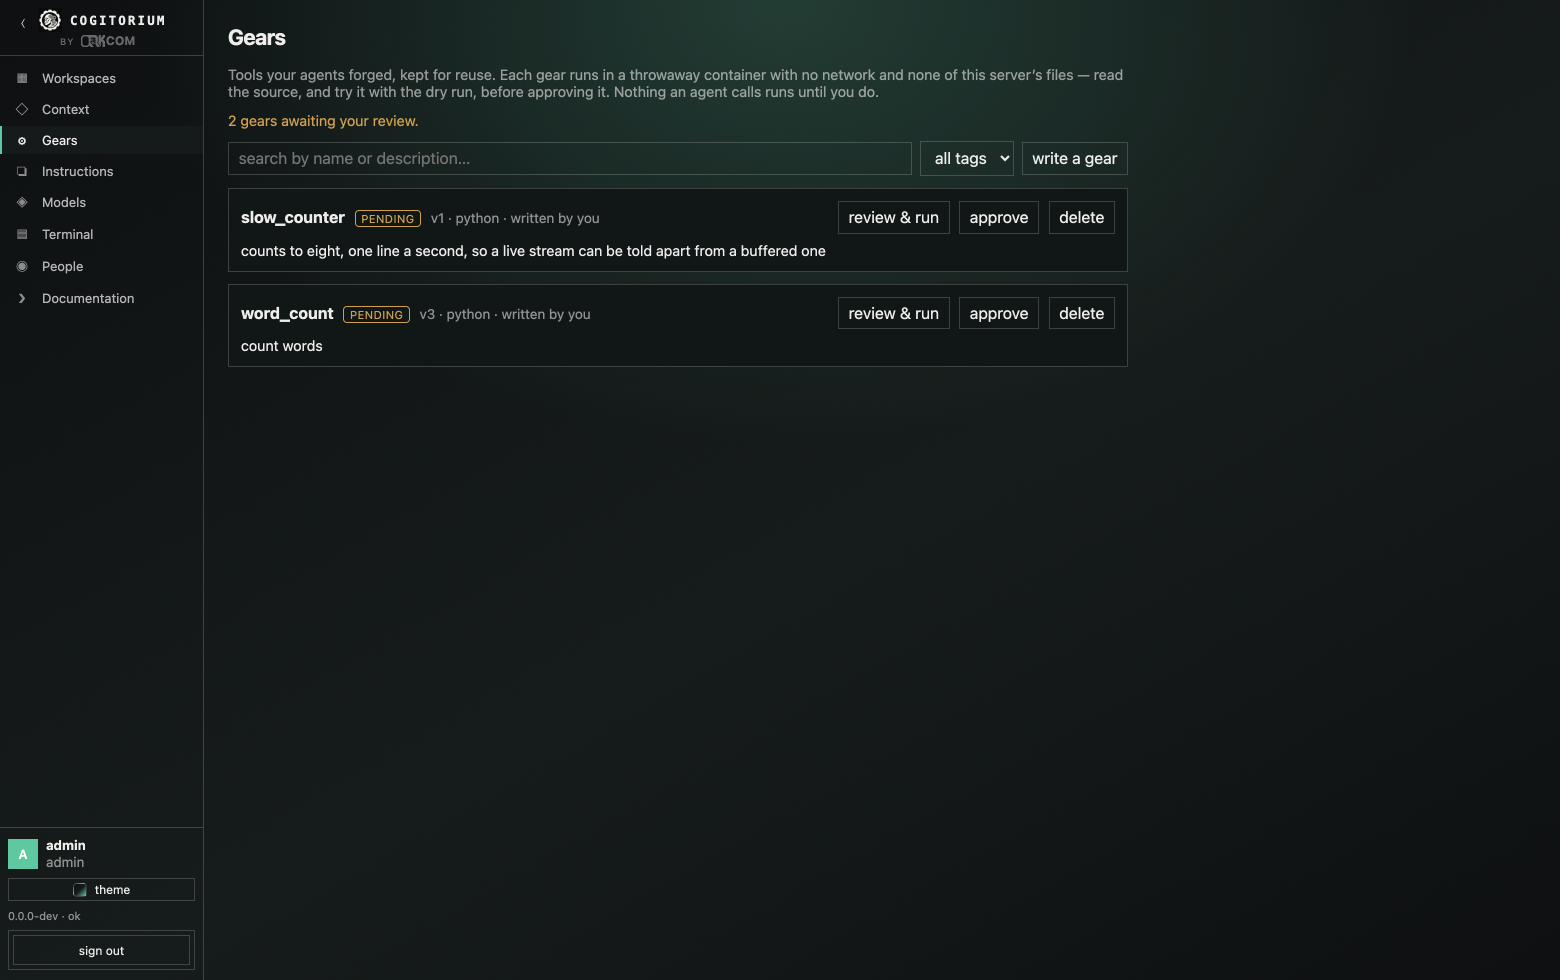
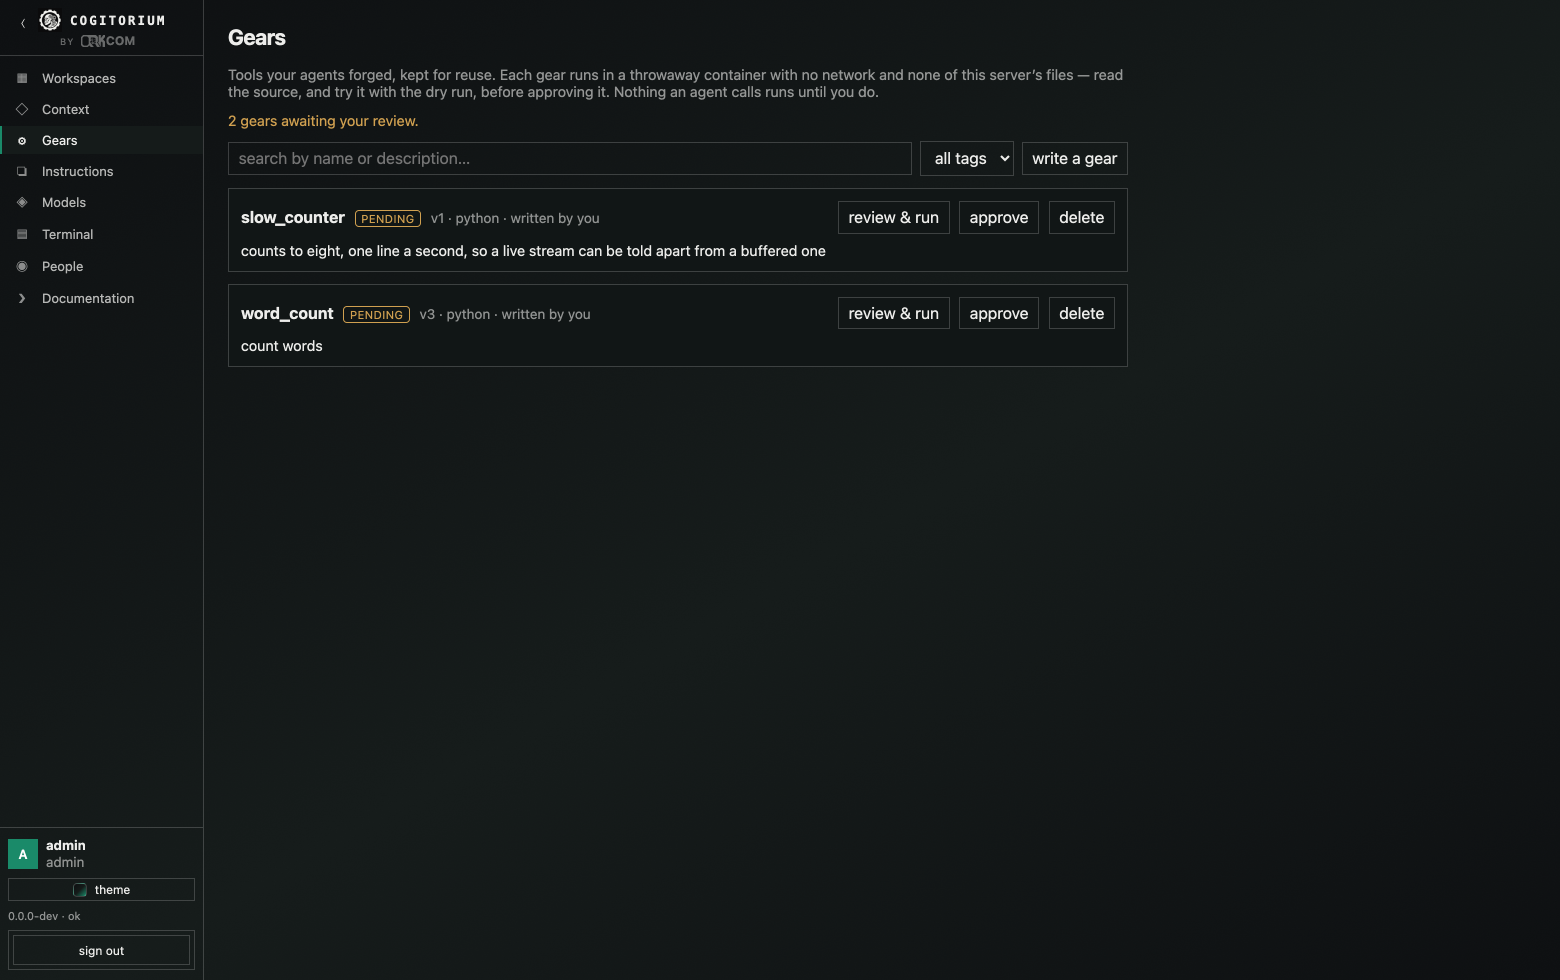
One green, and no weather
Two decisions, taken on measurements rather than taste, and then looked at.

The accent was a mint that measures 9.4:1 on the dark ground and 1.8:1 on the
light one — so in light mode the accent was very nearly invisible, which I only
noticed after fixing light mode enough for anyone to use it. It is now the
mark's own green: 4.5:1 on the Instrument ground, 4.3:1 on Canvas-first's, and
3.8:1 on a light one, the only candidate of six that clears 3:1 at both ends.
That it is also the colour of the icon is the point rather than a coincidence —
one green in the product instead of two that nearly match.

And the glow is off by default in Instrument. It was there because it could not
be switched off, which is a bad reason for a design decision, and the file
already said an instrument has no weather while the stylesheet washed the top of
the screen green. Canvas-first keeps a low one at 35%: a drafting table is lit,
and the dot grid reads better with somewhere for the light to come from.

Both are defaults, not rules. The palette screenshot still shows an operator's
own three colours with the light turned up, because that is the thing worth
proving about a default.

All twelve screenshots re-shot, and the shot pipeline carries the same
signature values as the product so the documentation cannot drift into showing
colours the software no longer has.

Changed region(s): [[0.3385, 0.0, 0.6769, 0.1837], [0.0, 0.8571, 0.0308, 0.8878]]

diff --git a/web/src/styles/theme.ts b/web/src/styles/theme.ts
@@ -56,6 +56,21 @@ export type Palette = Pick<Theme, 'colors' | 'grain' | 'tint'>
 export type Look = Theme['look']
 
 /**
+ * The accent, and it is the mark's own green.
+ *
+ * It used to be a mint — #5ec8a0 — which measures 9.4:1 on the dark ground and
+ * 1.8:1 on the light one, so in light mode the accent was very nearly
+ * invisible. This is the value the app icon was solved for: 4.5:1 on the
+ * Instrument ground, 4.3:1 on Canvas-first's, and 3.8:1 on a light ground —
+ * the only candidate that clears 3:1 at both ends.
+ *
+ * That it is also the colour of the mark is the point rather than a
+ * coincidence: one green in the product, in the icon and in the interface,
+ * instead of two that nearly match.
+ */
+const ACCENT = '#1a8a69'
+
+/**
  * What a look actually is.
  *
  * A look is not a density switch. Each one is a whole visual world — its own
@@ -67,32 +82,32 @@ export type Look = Theme['look']
  * not a cage. Pick a look, then change every colour in it if you like.
  */
 export const LOOK_SIGNATURE: Record<Look, Palette & Pick<Theme, 'surface' | 'dim' | 'blur' | 'glow' | 'glowStrength' | 'drift'>> = {
-  // Near-black with a mint instrument accent, and a glow low enough to read
-  // as the bezel of a lit panel rather than as weather.
+  // Near-black, and no light at all: an instrument has no weather. The wash
+  // was there because the glow could not be switched off, which is a bad
+  // reason for a design decision.
   instrument: {
-    colors: ['#0d0f11', '#151b1a', '#5ec8a0'],
+    colors: ['#0d0f11', '#151b1a', ACCENT],
     grain: 0.3,
     tint: 0.55,
     surface: 'solid',
     dim: 1,
     blur: 0,
     glow: { x: 50, y: 0 },
-    // An instrument has no weather. This is where the dim wash lives now,
-    // rather than as an opacity buried in a stylesheet the operator cannot see.
-    glowStrength: 0.22,
+    glowStrength: 0,
     drift: false,
   },
-  // Cooler and deeper, with the accent pushed brighter: on a dot grid the
-  // wires have to stay legible against the ground they cross.
+  // Cooler and deeper, with a low light rather than none: a drafting table is
+  // lit, and the dot grid reads better with somewhere for the light to come
+  // from. Low, though — this is a lamp, not weather.
   canvas: {
-    colors: ['#101318', '#1a2230', '#6ee7b7'],
+    colors: ['#101318', '#1a2230', ACCENT],
     grain: 0.4,
     tint: 0.45,
     surface: 'glass',
     dim: 0.82,
     blur: 16,
     glow: { x: 84, y: 6 },
-    glowStrength: 1,
+    glowStrength: 0.35,
     drift: false,
   },
 }

diff --git a/docs/index.md b/docs/index.md
@@ -301,8 +301,8 @@ you can save your own. `?layout=reset` in the URL recovers from anything.
 The interface has two, and they are whole designs rather than a density switch:
 each carries its own ground, accent, surface treatment and arrangement.
 
-**Instrument** — a bench instrument. Hairlines carry every boundary, nothing is
-rounded, panel names are stencilled in monospace, and every figure is monospaced
+**Instrument** — a bench instrument. No light at all, hairlines carrying every
+boundary, nothing rounded, panel names are stencilled in monospace, and every figure is monospaced
 so a column of token spends lines up down the panel. The conversation stays in
 the centre. Every screenshot above is Instrument.
 

diff --git a/README.md b/README.md
@@ -152,8 +152,8 @@ has spent.
 
 ### Two looks, and a palette under them
 
-Pick the room you want to work in. **Instrument** is a bench instrument —
-hairlines instead of cards, nothing rounded, every figure in monospace so a
+Pick the room you want to work in. **Instrument** is a bench instrument — no
+light at all, hairlines instead of cards, nothing rounded, every figure in monospace so a
 column of spends lines up, and the conversation in the centre. Everything above
 this line is Instrument.
 
